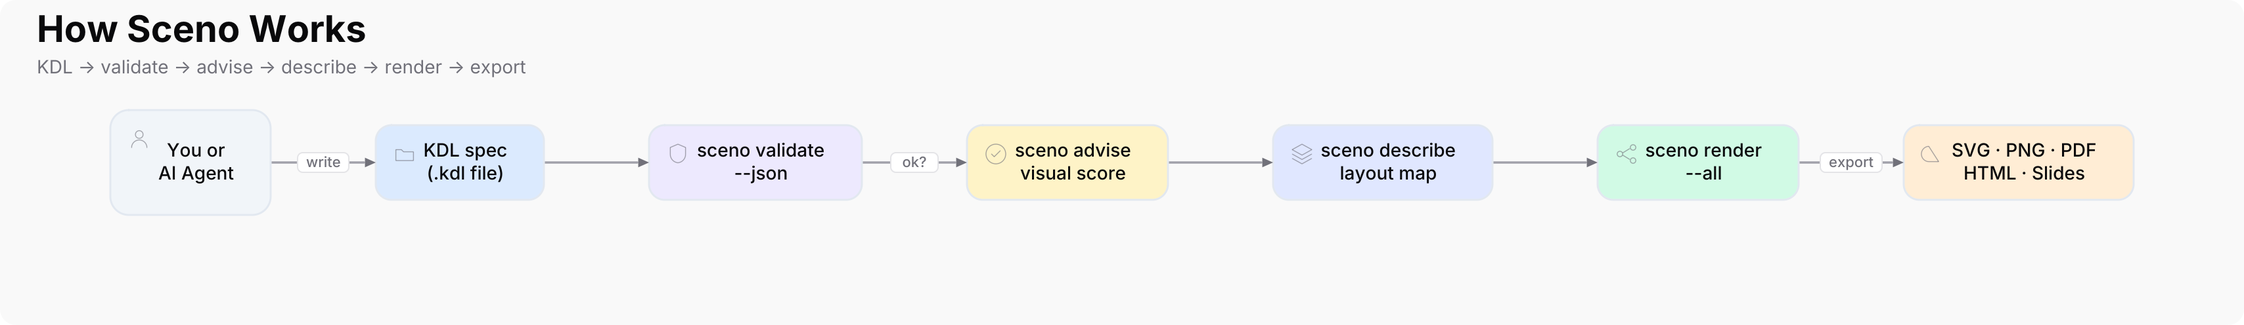
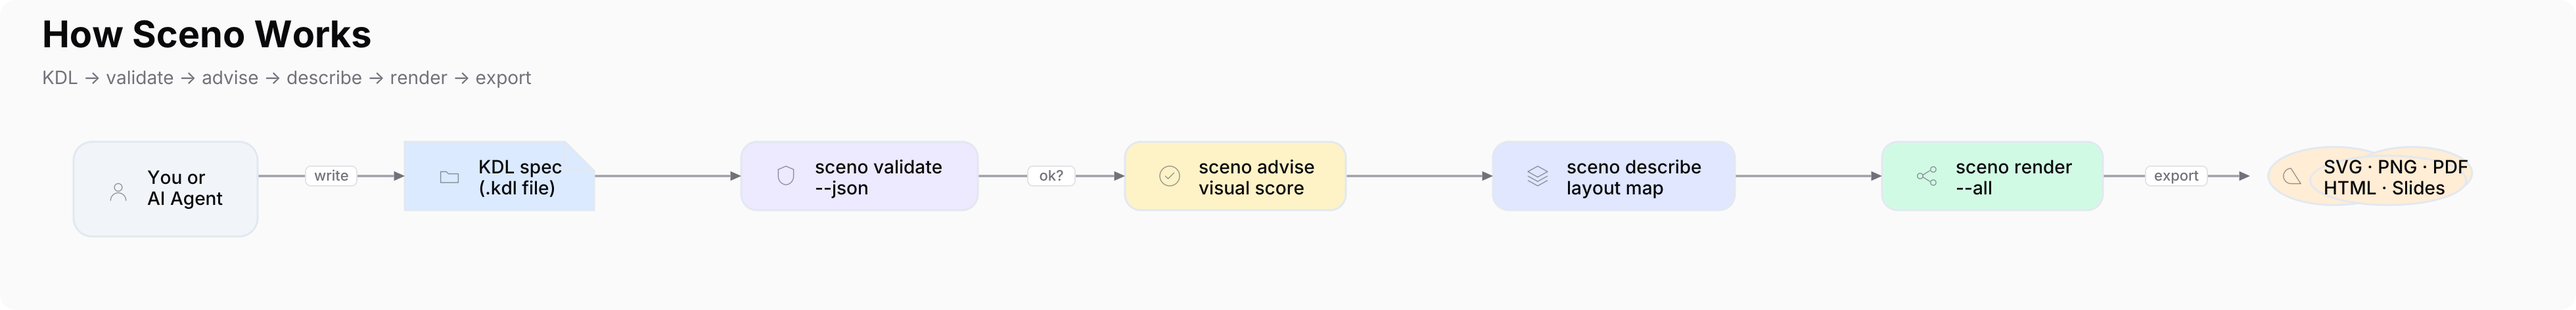
docs(agents): clarify visual feedback goals

diff --git a/internal/guide/goals.go b/internal/guide/goals.go
@@ -26,15 +26,17 @@ type QualityEntry struct {
 // BuildGoals returns the goals document from code.
 func BuildGoals() GoalsDocument {
 	return GoalsDocument{
-		Mission: "Build the best **local-first** tool for architecture and system diagrams: one KDL file in, polished diagrams out — without a browser editor, without cloud lock-in, without export surprises. Optimized for humans **and** AI agents that edit specs in a validate → advise → describe → render loop.",
+		Mission: "Bridge text and visual work for humans and AI agents: one deterministic KDL file produces both polished exports and an exact machine-readable account of the canvas. Agents must be able to understand what exists, where it is, what conflicts, and how to repair it in a validate → advise → describe → render loop — locally, without cloud lock-in or export surprises.",
 		ProductGoals: []string{
 			"**KDL-only specs** — One human-friendly format; no YAML/JSON/Lua drift.",
+			"**Agent-readable visual state** — Exact canvas, shape content, routes, stack planes, collisions, and repair candidates without requiring image vision.",
 			"**Export parity** — SVG, PNG, PDF, HTML, and slides must look like the same diagram.",
 			"**Boxes fit text** — Node size driven by Inter metrics; labels never clip.",
-			"**Trustworthy layout** — Auto grid, obstacle-aware routing, single-row centering, collision resolution.",
+			"**Trustworthy layout** — Collision-free auto grid, obstacle-aware routing, readable labels, attached arrowheads, and deterministic results.",
+			"**Controlled visual freedom** — Hybrid/free placement, dx/dy nudges, annotations, and intentional overlap without hiding geometry from feedback.",
 			"**Stack scene understanding** — Stacked 2D planes; paint order, occlusion, edge visibility via describe/advise/validate.",
-			"**Visual design validation** — Whitespace, hierarchy, C4 element budget, slide focus, annotation placement.",
-			"**AI-ready validation** — JSON everywhere; fix + example on errors; optional advise --ai with SCENO_AI_CMD.",
+			"**Visual design validation** — Measurable whitespace, hierarchy, content grid, connector clearance, element budget, slide focus, and annotation placement.",
+			"**AI-ready feedback** — JSON everywhere; exact geometry plus fix/example/repair hints; optional advise --ai with SCENO_AI_CMD.",
 			"**PowerPoint familiarity** — Shapes, lanes, callouts (info/tip/warning), iconPos, dashed policy lines.",
 			"**Slide-ready export** — slide blocks, 16x9, HTML deck, per-slide PNG/SVG.",
 			"**Theming** — theme=dark, background=transparent, var.* overrides.",
@@ -51,17 +53,19 @@ func BuildGoals() GoalsDocument {
 		},
 		LayoutRules: []string{
 			"Logical grouping — columns/layers and proximity clusters",
-			"Visible connectors — fromSide/toSide when paths cross nodes",
-			"Aligned labels — iconPos + column alignment checks",
+			"Collision-free defaults — auto layout routes around shapes and existing connectors",
+			"Visible connectors — attached arrowheads, direct paths, and clear labeled shafts",
+			"Aligned content — inline icon/text groups and row/column alignment checks",
 			"Readable density — aesthetic score; dense_layout / sparse_layout hints",
 			"Annotations — info/tip/warning/infobox for context off the main flow",
 		},
 		AgentWorkflow: []string{
 			"sceno docs guide --json once per session",
 			"Edit KDL → sceno validate --json until ok: true",
-			"sceno advise --json for visual polish",
-			"sceno describe --json to sanity-check layout",
-			"sceno render --all",
+			"sceno advise --json; resolve every structural visual finding",
+			"sceno describe --json; inspect scene_stack, content bounds, routes, repairs, and ascii_map",
+			"sceno render --all; visually sample each target format",
+			"Repository changes: mask verify; every shipped example scores at least 80 with no blocked visual code",
 		},
 		Conventions: []string{
 			"Quote strings with spaces: title=\"My Platform\"",
@@ -75,18 +79,21 @@ func BuildGoals() GoalsDocument {
 			"WYSIWYG drag-and-drop canvas (free placement via x/y is supported)",
 			"Import from Visio/Lucidchart",
 			"Animation timelines inside slides",
+			"Embedded general-purpose scripting — deterministic declarative constraints keep feedback explainable",
 			"Built-in LLM — use sceno advise --ai with your CLI instead",
 		},
 		QualityBar: []QualityEntry{
 			{Area: "Typography", Target: "Embedded Inter (OFL), measured widths"},
 			{Area: "Icons", Target: "Embedded vector catalog; parity across SVG/PNG/PDF/HTML/slides"},
-			{Area: "Arrows", Target: "Orthogonal (polished); labels on H/V segments"},
-			{Area: "Scene", Target: "Stack planes; describe + advise + validate"},
+			{Area: "Arrows", Target: "Obstacle-free orthogonal routes; 18px visible shaft + 9px head; tips on borders"},
+			{Area: "Scene", Target: "One shared geometry model for stack planes, describe, advise, validate, and render"},
+			{Area: "Corpus", Target: "Every shipped KDL scores ≥80 with no collision, detour, hidden/detached arrow, label overlap, side mismatch, occlusion, or text overflow"},
 			{Area: "Slides", Target: "slide blocks; ≤9 shapes per slide (hint)"},
 			{Area: "CLI", Target: "Single binary; JSON everywhere; self-doc from code"},
 		},
 		Principles: []string{
 			"Spec is source of truth — diagram is computed, not hand-tweaked per format",
+			"Feedback and pixels share geometry — an agent sees the same canvas the renderer exports",
 			"Fail with advice — errors include fix and example KDL",
 			"See without pixels — describe/advise/stack when agents cannot view PNG",
 			"Self-documenting — sceno docs generated from code, not duplicate markdown",

diff --git a/internal/docs/architecture.go b/internal/docs/architecture.go
@@ -12,18 +12,19 @@ import (
 
 // ArchitectureDoc documents the source-of-truth chain for agents.
 type ArchitectureDoc struct {
-	Tool         string            `json:"tool"`
-	Version      string            `json:"version"`
-	Summary      string            `json:"summary"`
-	Pipeline     []string          `json:"pipeline"`
-	GeometrySoT  string            `json:"geometry_source_of_truth"`
-	SemanticsSoT string            `json:"semantics_source_of_truth"`
-	EntryPoint   string            `json:"entry_point"`
-	Consumers    map[string]string `json:"consumers"`
-	PaintOrder   string            `json:"paint_order"`
-	StackModel   string            `json:"stack_model"`
-	Principles   []string          `json:"principles"`
-	AntiPatterns []string          `json:"anti_patterns"`
+	Tool           string            `json:"tool"`
+	Version        string            `json:"version"`
+	Summary        string            `json:"summary"`
+	Pipeline       []string          `json:"pipeline"`
+	GeometrySoT    string            `json:"geometry_source_of_truth"`
+	CompositionSoT string            `json:"composition_source_of_truth"`
+	SemanticsSoT   string            `json:"semantics_source_of_truth"`
+	EntryPoint     string            `json:"entry_point"`
+	Consumers      map[string]string `json:"consumers"`
+	PaintOrder     string            `json:"paint_order"`
+	StackModel     string            `json:"stack_model"`
+	Principles     []string          `json:"principles"`
+	AntiPatterns   []string          `json:"anti_patterns"`
 }
 
 func buildArchitectureDoc() ArchitectureDoc {
@@ -38,9 +39,10 @@ func buildArchitectureDoc() ArchitectureDoc {
 			"scene.Evaluate per slide — semantics: stack planes, visual rules, score, paint order",
 			"validate / advise / describe / render — consumers of pipeline.Result",
 		},
-		GeometrySoT:  "model.Diagram from pipeline.BuildDeck (positions, rects, Routed edges)",
-		SemanticsSoT: "scene.Evaluation from scene.Evaluate (stack, findings, visual_score, paint_order)",
-		EntryPoint:   "validate.LoadAndEvaluate(path, opt) → (pipeline.Result, diag.Report, error)",
+		GeometrySoT:    "model.Diagram from pipeline.BuildDeck (positions, rects, Routed edges)",
+		CompositionSoT: "composition.Bounds / composition.ChromeBounds (shared export viewport and title chrome used by render and scene analysis)",
+		SemanticsSoT:   "scene.Evaluation from scene.Evaluate (stack, findings, visual_score, paint_order)",
+		EntryPoint:     "validate.LoadAndEvaluate(path, opt) → (pipeline.Result, diag.Report, error)",
 		Consumers: map[string]string{
 			"sceno validate": "diag.Report from ApplyResult — blocking errors + stack warnings",
 			"sceno advise":   "pipeline.Result.MergedEval().EngineReport() — visual score + findings",
@@ -53,10 +55,12 @@ func buildArchitectureDoc() ArchitectureDoc {
 			"Build once per command — no double pipeline.BuildDeck in validate then render",
 			"Render projects geometry; it must not re-derive validation rules",
 			"Visual rules live in scene.engineRules — single catalog for validate, advise, docs",
+			"Canvas/title composition: composition.Bounds / composition.ChromeBounds — render and scene analysis share exact viewport geometry",
 			"Paint order and container backgrounds: scene.PaintsBeforeEdges / scene.BuildPaintOrder",
 			"Interior shape layout: measure.ApplyInteriors → model.Node.Interior (4px grid, icon+label bands)",
 			"Agent visibility: scene_stack items include outer bounds plus exact nested icon/title/subtitle content boxes",
 			"Edge anchors: geom.BestSides / geom.StackedVertically — top/bottom when stacked",
+			"Arrow geometry: geom.ArrowGeometryForPath — render and validation share tip, stroke end, and 27px target approach",
 			"Grid placement: at=col,row sets AtSet so layer 0 columns are not overridden by edge ranks",
 			"Hybrid layout: auto grid-snaps flow nodes; dx/dy nudges preserve slots; hybrid x/y shapes float independently",
 			"Intentional overlap: overlap=allow suppresses collision findings while semantic plane + source order remain visible in scene_stack",
@@ -66,6 +70,7 @@ func buildArchitectureDoc() ArchitectureDoc {
 			"Calling pipeline.BuildDeck separately after validate.Run in the same command",
 			"Duplicating overlap or edge-crossing checks outside scene.Evaluate",
 			"Inventing paint order in render that contradicts engine stack planes",
+			"Re-deriving viewport, chrome, or arrow geometry separately in an export backend",
 		},
 	}
 }
@@ -87,6 +92,7 @@ func writeArchitectureMarkdown(w io.Writer) error {
 	}
 	b.WriteString("\n## Source of truth\n\n")
 	fmt.Fprintf(&b, "- **Geometry:** %s\n", doc.GeometrySoT)
+	fmt.Fprintf(&b, "- **Composition:** %s\n", doc.CompositionSoT)
 	fmt.Fprintf(&b, "- **Semantics:** %s\n\n", doc.SemanticsSoT)
 	b.WriteString("## Entry point\n\n")
 	b.WriteString("`" + doc.EntryPoint + "`\n\n")

diff --git a/internal/docs/docs_test.go b/internal/docs/docs_test.go
@@ -125,7 +125,7 @@ func TestRunArchitectureJSON(t *testing.T) {
 	if err := json.Unmarshal(buf.Bytes(), &doc); err != nil {
 		t.Fatal(err)
 	}
-	if doc.EntryPoint == "" || doc.GeometrySoT == "" || doc.SemanticsSoT == "" {
+	if doc.EntryPoint == "" || doc.GeometrySoT == "" || doc.CompositionSoT == "" || doc.SemanticsSoT == "" {
 		t.Fatalf("architecture doc incomplete: %+v", doc)
 	}
 	if len(doc.Pipeline) < 4 || len(doc.Consumers) < 4 {

diff --git a/internal/guide/render_test.go b/internal/guide/render_test.go
@@ -40,4 +40,7 @@ func TestBuildGoalsJSON(t *testing.T) {
 	if g.Mission == "" || len(g.ProductGoals) < 5 {
 		t.Fatalf("goals: %+v", g)
 	}
+	if !strings.Contains(g.Mission, "machine-readable") || len(g.AgentWorkflow) < 6 {
+		t.Fatalf("agent feedback loop missing from goals: %+v", g)
+	}
 }

diff --git a/README.md b/README.md
@@ -37,9 +37,10 @@ Browse all topics: `sceno docs --json` (guide, spec, goals, practices, visual, s
 ```bash
 sceno validate -i sceno.kdl --json
 sceno advise -i sceno.kdl --json   # visual score + stack rules (after ok)
+sceno describe -i sceno.kdl --json # exact scene, routes, bounds, and ASCII map
 ```
 
-The JSON report includes `ok`, `errors` (with `fix` + `example`), `warnings`, `recommendations`, and `agent.next_steps`. Only render when `ok` is true.
+The JSON report includes `ok`, `errors` (with `fix` + `example`), `warnings`, `recommendations`, and `agent.next_steps`. Only render when `ok` is true. For repository changes, `mask verify` additionally requires every shipped example to score at least 80 with no structural visual findings.
 
 See [AGENTS.md](AGENTS.md) for the full agent playbook.
 
@@ -73,7 +74,7 @@ curl -fsSL https://raw.githubusercontent.com/niklas-heer/sceno/main/scripts/inst
 Pin a specific version (optional):
 
 ```bash
-curl -fsSL https://raw.githubusercontent.com/niklas-heer/sceno/main/scripts/install.sh | bash -s -- --version v0.2.0
+curl -fsSL https://raw.githubusercontent.com/niklas-heer/sceno/main/scripts/install.sh | bash -s -- --version v0.3.0
 ```
 
 Or from a [GitHub Release](https://github.com/niklas-heer/sceno/releases) tarball (includes `install.sh`; also installs latest unless you pass `--version`):
@@ -272,8 +273,12 @@ Highlights: `box`, `actor`, `cylinder`, `cloud`, `document`, `callout`, `lane`, 
 
 ## Goals
 
+Sceno's core goal is to bridge text and visual work: an agent authors one deterministic KDL source, receives an exact textual account of the computed canvas, applies actionable feedback, and exports the same scene in every format. Auto layout should prevent accidental collisions; hybrid/free placement and intentional overlap retain slide-like creative freedom without hiding geometry from the agent.
+
+The runtime goals document is the source of truth for product goals, non-goals, quality targets, and the agent loop:
+
 ```bash
-sceno docs goals
+sceno docs goals --json
 ```
 
 ## Development
@@ -282,7 +287,7 @@ Requires [mask](https://github.com/jacobdeichert/mask) for project tasks (`brew 
 
 ```bash
 mask test      # unit tests (local Go)
-mask verify    # quick local build + render smoke test
+mask verify    # all KDL examples: validate, advise, describe, and every export
 mask ci        # full CI via Dagger (same as GitHub Actions)
 mask build
 ```
@@ -302,6 +307,12 @@ dagger call ci --source=.
 
 GitHub Actions is a thin wrapper that calls `dagger call ci` — no duplicated shell in YAML.
 
+### Repository hygiene
+
+- Commit source, tests, KDL fixtures, runtime documentation, and `docs/how-it-works.png`. The PNG is a deliberate tracked README asset generated from `examples/how-it-works.kdl` with `mask docs-diagram`.
+- Ignore local build and review output: `/sceno`, `/dist/`, `/output/`, coverage/profiling files, `.env*`, `.DS_Store`, and Dagger-generated `ci/dagger.gen.go` / `ci/internal/` bindings.
+- Before committing, run `git status --short --ignored` to confirm every remaining file is intentionally tracked or ignored; do not commit generated release bundles or visual-audit output.
+
 ## Releasing
 
 One command — semver is inferred from [Conventional Commits](https://www.conventionalcommits.org/) since the last tag, then CI runs, VERSION and CHANGELOG update, and the tag is pushed:
@@ -318,7 +329,7 @@ mask release
 
 `mask release` will:
 
-1. Suggest the next version (e.g. **0.2.0**) and show which commits drove the bump
+1. Suggest the next version (e.g. **0.4.0**) and show which commits drove the bump
 2. Ask for confirmation (skip with `-y`)
 3. Run full CI via Dagger
 4. Bump `internal/version/VERSION` and prepend `CHANGELOG.md` — grouped by conventional commit type (`feat`, `fix`, `refactor`, …) with scopes and commit links
@@ -331,7 +342,7 @@ mask release --dry-run   # includes full release notes preview
 mask next-version    # print suggested version only
 ```
 
-Flags: `-y` confirm, `-n` dry-run, `--skip-ci`, `-V 0.2.1` override version, `-f` release off main.
+Flags: `-y` confirm, `-n` dry-run, `--skip-ci`, `-V 0.3.1` override version, `-f` release off main.
 
 Pushing `v*.*.*` triggers [`.github/workflows/release.yml`](.github/workflows/release.yml), which builds tarballs, `SHA256SUMS`, and `install.sh` for [GitHub Releases](https://github.com/niklas-heer/sceno/releases).
 

diff --git a/AGENTS.md b/AGENTS.md
@@ -2,6 +2,15 @@
 
 Use this tool to produce architecture diagrams from a single **KDL** (`.kdl`) file. Outputs: SVG, PNG, PDF, HTML, and slide decks.
 
+## Core objective
+
+Sceno bridges a text-only agent and a visual canvas. The same computed geometry must drive both exported pixels and machine-readable feedback, so an agent can understand what exists, where it is, what overlaps, and how to repair it without guessing from an image.
+
+- Auto layout should be collision-free by default; hybrid/free placement and `overlap=allow` provide deliberate breakout control.
+- `validate`, `advise`, and `describe` must expose exact bounds, routes, stack planes, findings, and actionable repairs.
+- SVG, PNG, PDF, HTML, and slides must preserve the same semantic shapes, icons, connectors, and paint order.
+- Repository examples are the visual regression corpus: every example must score at least 80 and have no structural visual findings.
+
 ## Start here
 
 ```bash
@@ -72,7 +81,7 @@ Collision and routing checks project onto reduced planes. Full details: `sceno d
 - `recommendations` — prioritized actionable hints
 - `ai_review` — when `--ai` and `SCENO_AI_CMD` are set
 
-`sceno validate --json` also warns on stack rules: `edge_hidden`, `arrow_detached`, `arrow_hidden`, `edge_label_chrome_overlap`, `edge_label_overlap`, `occluded`, `misaligned`, `dense_layout`, `slide_crowded`, etc. **Arrow checks** (same math as render): path must end on target border, tip within 2px of anchor, stroke ≥18px before head. If validate passes, arrowheads should meet shapes in export.
+`sceno validate --json` also warns on stack rules: `edge_hidden`, `arrow_detached`, `arrow_hidden`, `edge_label_chrome_overlap`, `edge_label_overlap`, `occluded`, `misaligned`, `dense_layout`, `slide_crowded`, etc. **Arrow checks** use the same math as render: the path ends on the target border, the tip stays within 2px of its anchor, and the target approach reserves 27px (18px visible shaft + 9px head). If validate passes, arrowheads should meet shapes in export.
 
 ## Rules
 
@@ -86,6 +95,7 @@ Collision and routing checks project onto reduced planes. Full details: `sceno d
 8. **Quote labels with spaces** — `title="My Platform"`.
 9. **Use `\n` in quoted strings** for line breaks inside labels.
 10. **Callouts** — `shape info`, `tip`, `warning`, `infobox`, `note` for annotations; `iconPos=top-left` for icons.
+11. **Repository changes** — run `mask verify`; the full KDL corpus must keep score ≥80 with no collision, detour, hidden/detached arrow, label overlap, side mismatch, occlusion, or text overflow.
 
 ## Commands
 

diff --git a/ci/README.md b/ci/README.md
@@ -18,7 +18,7 @@ mask ci-smoke                        # build + integration smoke
 dagger functions                     # list pipeline functions
 dagger call test --source=.
 dagger call ci --source=. --commit=$(git rev-parse HEAD)
-dagger call release --source=. --tag=v0.1.0 export --path=dist
+dagger call release --source=. --tag=v0.3.0 export --path=dist
 ```
 
 ## Functions
